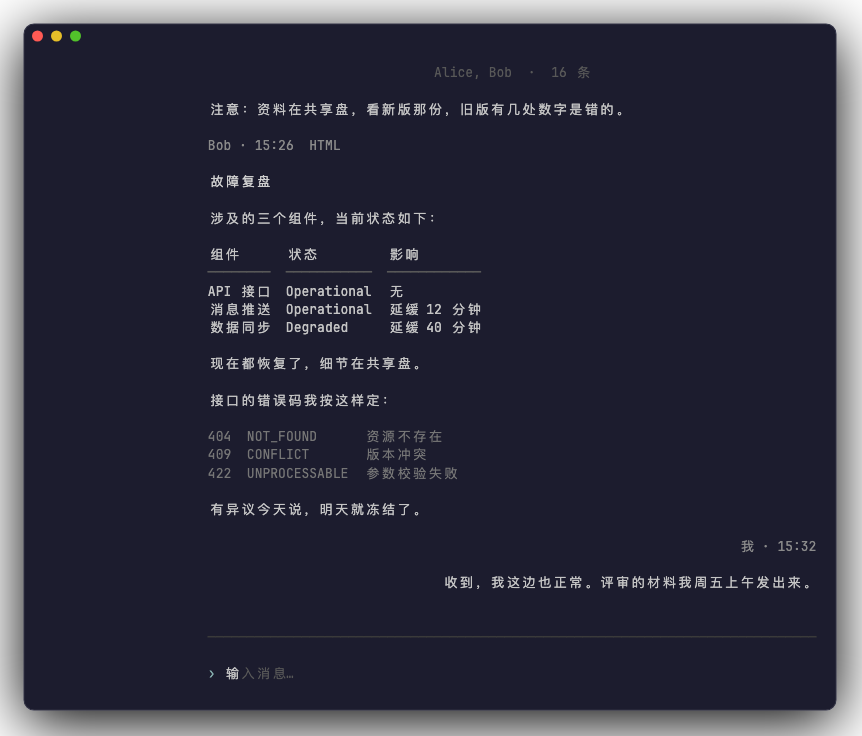
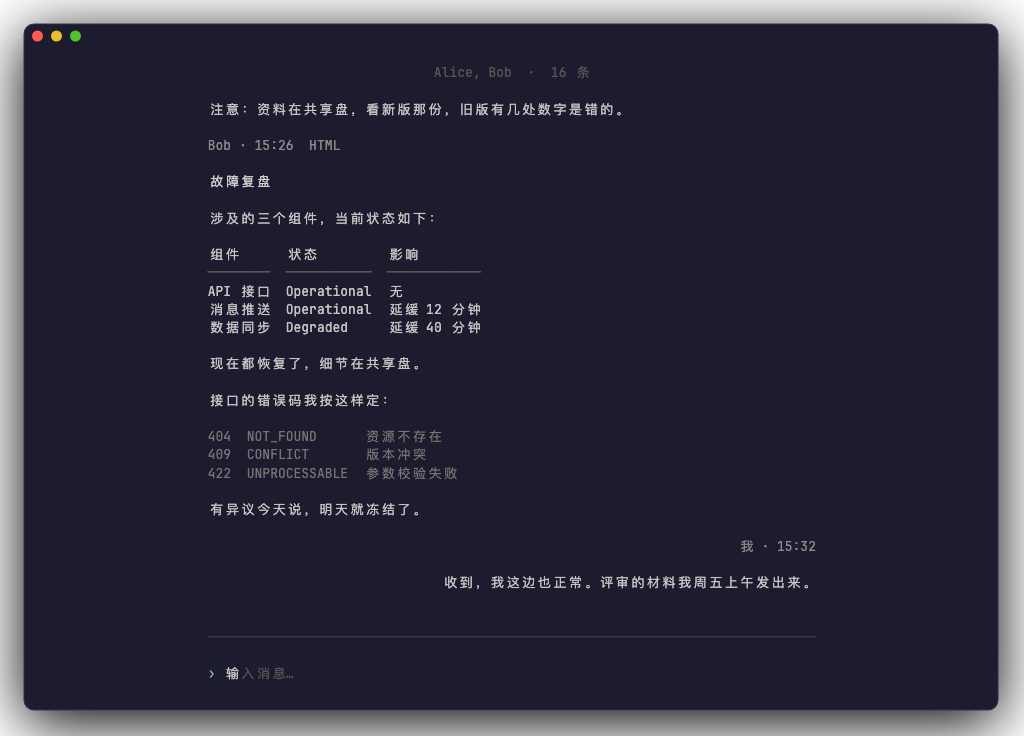
fix: 禅模式的正文列没有真正居中 —— 行尾漏了补白
正文列在**任何终端宽度**下右边距都是 0，只是真实终端里看不出来。

## 原因

viewZen 只画到正文列右沿就收手，行尾没有补白。最长的那行（输入框上方的
分隔线）只有「左留白 + 正文列」那么宽，右半边是**不存在**的空白。后果分两种：

- 真实终端里由终端背景兜着，肉眼看不出任何问题；
- 但任何按「最长行」开窗的渲染器会把窗口开成那个宽度（截图链路里的 freeze
  正是如此），于是正文列贴到窗口右边，居中排版整个作废 —— README 里那四张
  禅模式截图就是这么歪的。

## 修法

每行补齐到终端全宽。Normal 布局没有这个问题：它的两栏加起来正好铺满，天然
就是全宽。Zen 主动留白，所以必须自己把这层留白**写出来**。

## 为什么原来的单测没抓住

两条判据（分隔线宽度 == zenContentWidth、左边距 == zenLeftPad）都只看了
**左半边**，全绿。

补了 TestZen_ContentColumnCentredAtEveryWidth：在 15 种宽度（40..200）下
同时量左右两侧，并断言每行宽度都等于终端全宽。

顺带记一条量居中的坑：右边距必须拿**终端宽度**去减，不能拿那一行自己的宽度
去减 —— 后者会把行尾的补白算成「不存在」，右边距永远是 0，看着还挺像
「没居中」，反而会把人引到错误的排查方向上（我就是这么量了第一遍）。

## 截图

05..08 全部重出，窗口宽度从 862/591 变成 1025/653 —— 现在按终端全宽开窗。

280 个用例全绿，go vet 干净。

diff --git a/internal/tui/zen_margin_test.go b/internal/tui/zen_margin_test.go
@@ -1,0 +1,69 @@
+package tui
+
+import (
+	"strings"
+	"testing"
+
+	tea "github.com/charmbracelet/bubbletea"
+	"github.com/charmbracelet/lipgloss"
+)
+
+// 正文列必须在**任何终端宽度**下都左右对称，且每行都补齐到终端全宽。
+//
+// 这组判据抓过一个真 bug，值得写清楚它是怎么漏出去的：
+//
+// 原先 viewZen 只画到正文列右沿就收手，行尾**没有**补白。后果分两种：
+//
+//   - 真实终端里，行尾之外由终端背景兜着，肉眼看不出任何问题；
+//   - 但任何按「最长行」开窗的渲染器会把窗口开成「左留白 + 正文列」那么宽
+//     （截图链路里的 freeze 正是如此），于是正文列贴到窗口右边，居中排版
+//     整个作废 —— README 里那几张截图就是这么歪的。
+//
+// 而当时的单测只断言「分隔线宽度 == zenContentWidth」和「左边距 ==
+// zenLeftPad」，两条都只看了**左半边**，全绿。
+//
+// 教训：验居中要同时量左右两侧，而且右边距必须拿**终端宽度**去减，
+// 不能拿那一行自己的宽度去减 —— 后者会把行尾的补白算成「不存在」，
+// 右边距永远是 0，看着还挺像「没居中」的。
+func TestZen_ContentColumnCentredAtEveryWidth(t *testing.T) {
+	for _, w := range []int{40, 50, 56, 58, 60, 64, 70, 72, 80, 90, 100, 120, 140, 160, 200} {
+		m := newSampleModel(t)
+		m, _ = update(m, tea.WindowSizeMsg{Width: w, Height: 30})
+		m, _ = update(m, keyMsg("enter"))
+		m = loadBodies(t, m)
+		m, _ = update(m, keyMsg("f2"))
+
+		lines := strings.Split(m.View(), "\n")
+
+		// 每行都必须是终端全宽 —— 这是「右边距存在」的前提。
+		for i, ln := range lines {
+			if got := lipgloss.Width(ln); got != w {
+				t.Errorf("宽度 %d：第 %d 行 %d 列，want %d（行尾没补白）",
+					w, i, got, w)
+			}
+		}
+
+		// 用分隔线那行量：它正好铺满正文列。
+		var left, ruleW int
+		var found bool
+		for _, ln := range lines {
+			trimmed := strings.TrimSpace(ln)
+			if trimmed != "" && strings.Trim(trimmed, "─") == "" {
+				ruleW = lipgloss.Width(trimmed)
+				left = lipgloss.Width(ln) - lipgloss.Width(strings.TrimLeft(ln, " "))
+				found = true
+			}
+		}
+		if !found {
+			t.Fatalf("宽度 %d：找不到输入框上方那条分隔线", w)
+		}
+
+		right := w - left - ruleW
+		if left != right {
+			t.Errorf("宽度 %d：正文列左 %d 右 %d —— 没居中", w, left, right)
+		}
+		if want := zenContentWidth(w); ruleW != want {
+			t.Errorf("宽度 %d：分隔线 %d 列，want %d", w, ruleW, want)
+		}
+	}
+}

diff --git a/internal/tui/zen.go b/internal/tui/zen.go
@@ -311,6 +311,22 @@ func (m Model) viewZen() string {
 	for len(lines) < m.height {
 		lines = append(lines, "")
 	}
+
+	// ⚠ 每行都要补齐到**终端全宽**，不能只画到正文列右沿就收手。
+	//
+	// 不补的话，最长的那行（分隔线）只有「左留白 + 正文列」那么宽，
+	// 右半边是**不存在**的空白 —— 于是：
+	//
+	//   - 真实终端里靠终端背景兜着，看着还行；
+	//   - 但任何按「最长行」开窗的渲染器（截图链路里的 freeze 就是）
+	//     会把窗口开成「左留白 + 正文列」宽，正文列立刻贴到右边去，
+	//     整个居中排版全废。README 里那几张截图就是这么歪的。
+	//
+	// Normal 布局没这个问题：它的两栏加起来正好铺满，天然就是全宽。
+	// Zen 主动留白，所以必须自己把这层留白**写出来**。
+	for i, ln := range lines {
+		lines[i] = padRight(ln, m.width)
+	}
 	return strings.Join(lines, "\n")
 }
 
